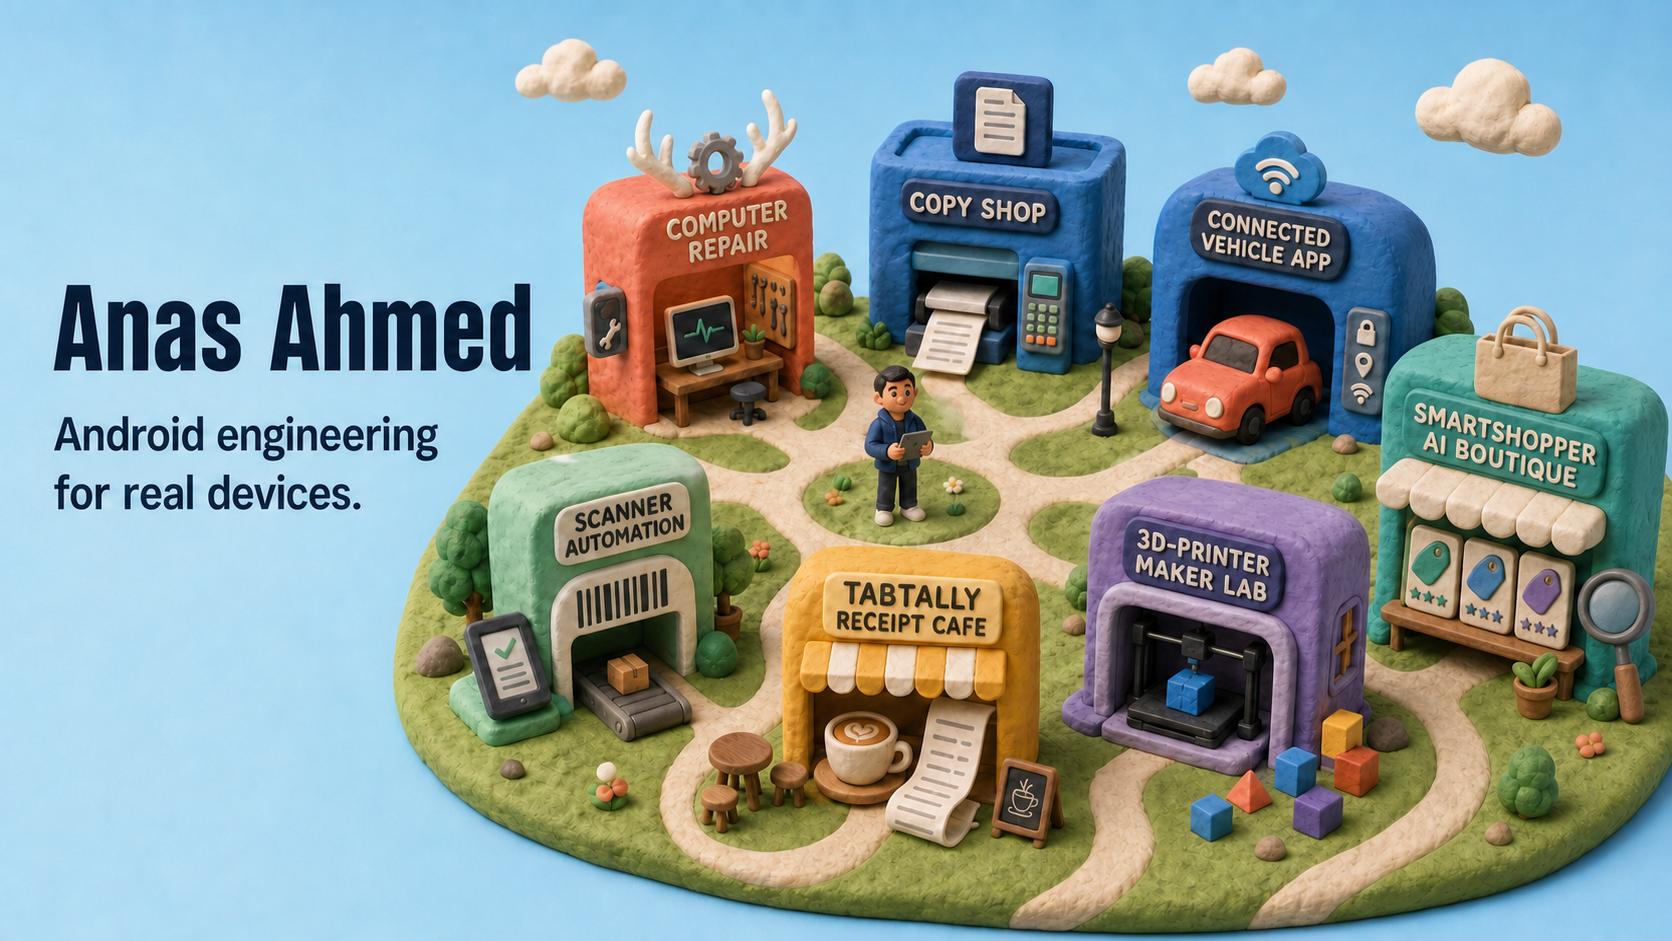
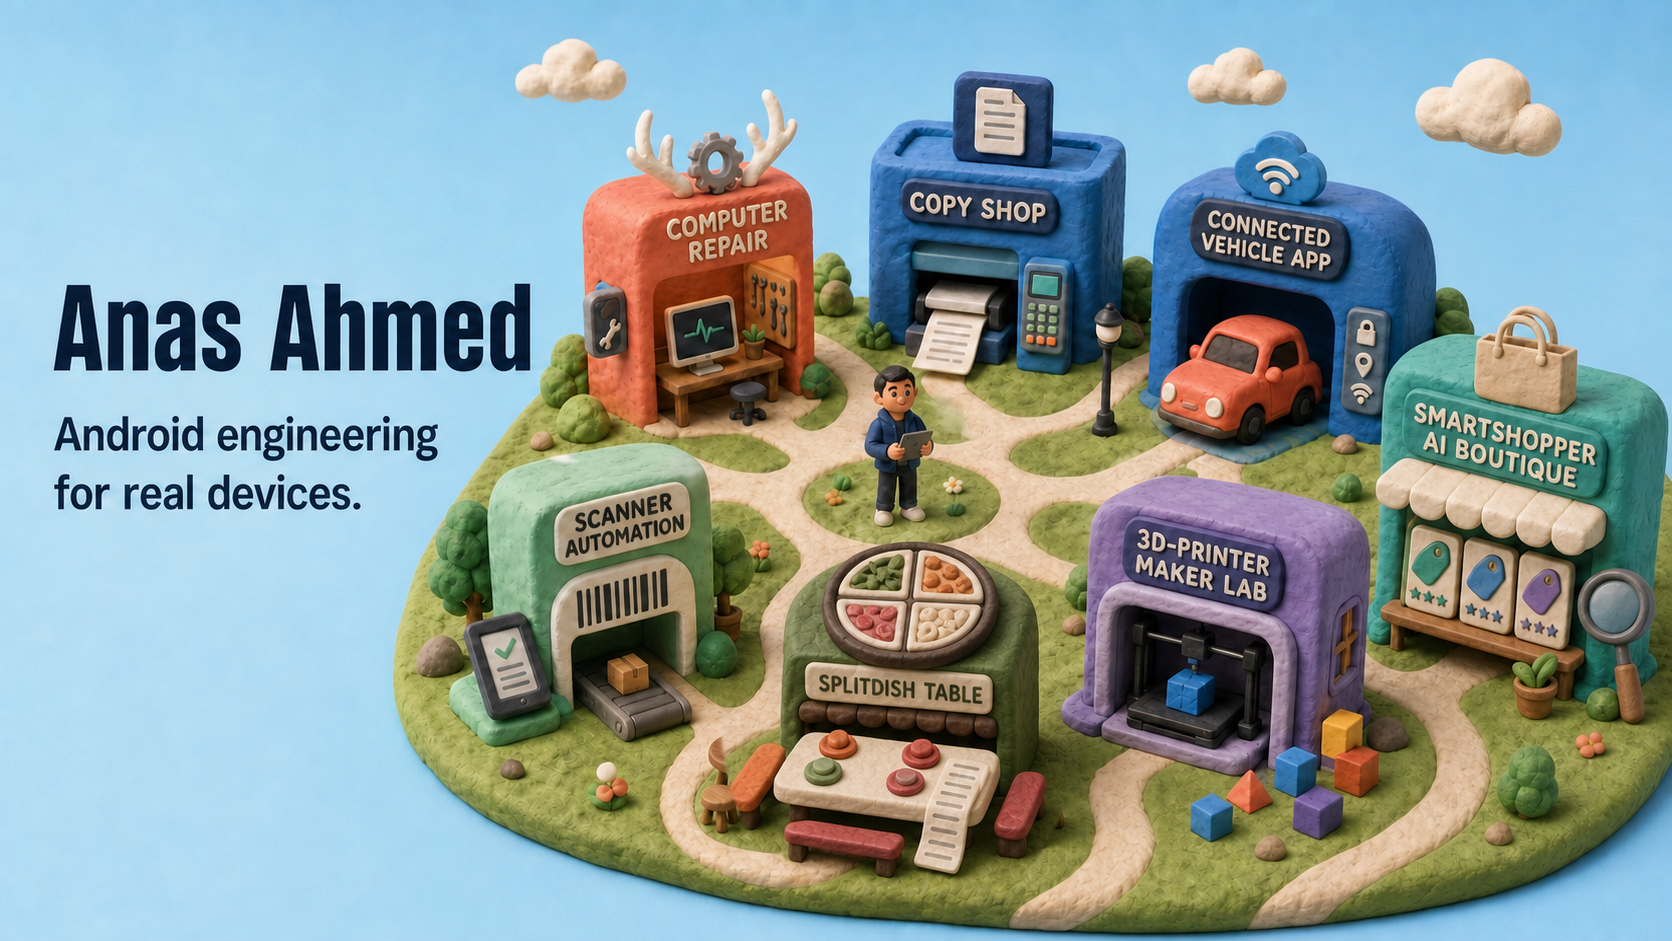
Replace campus landmark with SplitDish Table

Changed region(s): [[0.4354, 0.5547, 0.6531, 0.9554]]

diff --git a/app/components/ClayCampus.tsx b/app/components/ClayCampus.tsx
@@ -888,37 +888,104 @@ function Building({
       );
     }
 
-    if (zone.visual === "receipt-cafe") {
+    if (zone.visual === "splitdish-table") {
+      const dinerColors = ["#C76F3E", "#9D3F48", "#E6C99A", "#7D874B"];
       return (
         <>
-          <ClayRoundedBox seed="receipt-shell" deformation={0.028} args={[5.35, 3.5, 4.45]} radius={1.05} smoothness={6} position={[0, 1.75, 0]} rotation={[0.006, -0.008, 0.01]} castShadow receiveShadow>
+          <ClayRoundedBox seed="splitdish-shell" deformation={0.028} args={[5.35, 3.5, 4.45]} radius={1.05} smoothness={6} position={[0, 1.75, 0]} rotation={[0.006, -0.008, 0.01]} castShadow receiveShadow>
             <ClayMaterial color={zone.color} roughness={0.94} normalStrength={0.28} />
           </ClayRoundedBox>
-          <mesh position={[0, 4.02, 0]} rotation={[0, 0, Math.PI / 2]} castShadow>
-            <cylinderGeometry args={[0.72, 0.72, 3.25, 24]} />
-            <meshStandardMaterial color="#fffdf5" roughness={0.94} />
-          </mesh>
-          <RoundedBox args={[2.85, 2.1, 0.18]} radius={0.16} smoothness={4} position={[0, 3.12, 2.28]} rotation={[0, 0, -0.025]}>
-            <meshStandardMaterial color="#fffdf5" roughness={0.98} />
-          </RoundedBox>
-          {[2.52, 2.2, 1.88].map((lineY, index) => (
-            <RoundedBox key={lineY} args={[index === 0 ? 1.85 : 1.35, 0.08, 0.04]} radius={0.03} position={[0, lineY, 2.4]}>
-              <meshStandardMaterial color={index === 0 ? "#25334a" : "#9b8d77"} roughness={0.85} />
-            </RoundedBox>
-          ))}
-          {[-1.35, 1.35].map((tableX) => (
-            <group key={tableX} position={[tableX, 0.62, 2.52]}>
-              <ClayMesh seed={`receipt-tabletop-${tableX}`} deformation={0.035} preserveBase={false}>
-                <cylinderGeometry args={[0.62, 0.68, 0.18, 18]} />
-                <ClayMaterial color="#fff0d2" roughness={0.95} normalStrength={0.2} />
+          <ClayRoundedBox seed="splitdish-cream-entry" deformation={0.024} args={[1.62, 2.38, 0.34]} radius={0.5} smoothness={5} position={[0, 1.2, 2.2]} rotation={[0, 0, -0.012]} castShadow>
+            <ClayMaterial color="#F6E8CC" roughness={0.95} normalStrength={0.22} />
+          </ClayRoundedBox>
+          <ClayRoundedBox seed="splitdish-door" deformation={0.022} args={[1.08, 1.88, 0.18]} radius={0.34} smoothness={5} position={[0, 1.08, 2.42]}>
+            <ClayMaterial color="#4A3428" roughness={0.92} normalStrength={0.18} />
+          </ClayRoundedBox>
+          <ClayRoundedBox seed="splitdish-plaque" deformation={0.025} args={[3.25, 0.62, 0.28]} radius={0.22} smoothness={5} position={[0, 3.15, 2.24]} rotation={[0, 0, -0.018]} castShadow>
+            <ClayMaterial color="#F6E8CC" roughness={0.95} normalStrength={0.2} />
+          </ClayRoundedBox>
+
+          <group position={[0, 4.38, 0.12]} rotation={[0.02, -0.03, -0.02]}>
+            <ClayMesh seed="splitdish-logo-rim" deformation={0.028} preserveBase={false} castShadow>
+              <torusGeometry args={[0.94, 0.16, 12, 32]} />
+              <ClayMaterial color="#4A3428" roughness={0.96} normalStrength={0.22} />
+            </ClayMesh>
+            <mesh position={[0, 0, -0.04]}>
+              <circleGeometry args={[0.9, 32]} />
+              <meshStandardMaterial color="#F6E8CC" roughness={0.95} />
+            </mesh>
+            {["#C76F3E", "#F6E8CC", "#9D3F48", "#7D874B"].map((color, index) => (
+              <ClayMesh
+                seed={`splitdish-logo-quadrant-${index}`}
+                deformation={0.018}
+                preserveBase={false}
+                key={color}
+                position={[0, 0, 0.03]}
+              >
+                <circleGeometry args={[0.78, 18, index * Math.PI / 2, Math.PI / 2]} />
+                <ClayMaterial color={color} roughness={0.95} normalStrength={0.17} />
               </ClayMesh>
-              <ClayMesh seed={`receipt-table-leg-${tableX}`} deformation={0.04} position={[0, -0.44, 0]}>
-                <cylinderGeometry args={[0.11, 0.14, 0.8, 10]} />
-                <ClayMaterial color="#40536b" roughness={0.93} normalStrength={0.18} />
+            ))}
+            {[[-0.42, 0.38], [0.42, 0.38], [-0.42, -0.38], [0.42, -0.38]].map(([motifX, motifY], index) => (
+              <ClayMesh
+                seed={`splitdish-logo-motif-${index}`}
+                deformation={0.028}
+                key={`${motifX}-${motifY}`}
+                position={[motifX, motifY, 0.11]}
+                scale={[1, 0.55, 0.42]}
+                rotation={[0, 0, index % 2 ? -0.65 : 0.65]}
+              >
+                <sphereGeometry args={[0.16, 12, 9]} />
+                <ClayMaterial color={index % 2 ? "#5D6639" : "#F6E8CC"} roughness={0.96} normalStrength={0.18} />
+              </ClayMesh>
+            ))}
+          </group>
+
+          <group position={[0, 0.72, 2.75]} rotation={[0, -0.04, 0]}>
+            <ClayMesh seed="splitdish-tabletop" deformation={0.034} preserveBase={false} castShadow>
+              <cylinderGeometry args={[1.48, 1.56, 0.2, 24]} />
+              <ClayMaterial color="#F6E8CC" roughness={0.96} normalStrength={0.22} />
+            </ClayMesh>
+            <ClayMesh seed="splitdish-table-leg" deformation={0.038} position={[0, -0.46, 0]} castShadow>
+              <cylinderGeometry args={[0.16, 0.22, 0.86, 12]} />
+              <ClayMaterial color="#4A3428" roughness={0.95} normalStrength={0.2} />
+            </ClayMesh>
+            <ClayRoundedBox seed="splitdish-receipt-strip" deformation={0.018} args={[0.54, 0.06, 1.34]} radius={0.04} smoothness={3} position={[0.08, 0.16, 0]} rotation={[0, 0.22, -0.02]}>
+              <ClayMaterial color="#FFF8E8" roughness={0.98} normalStrength={0.12} />
+            </ClayRoundedBox>
+            {[-0.3, 0, 0.3].map((lineZ, index) => (
+              <RoundedBox key={lineZ} args={[0.3 + index * 0.06, 0.025, 0.035]} radius={0.012} position={[0.06, 0.205, lineZ]} rotation={[0, 0.22, 0]}>
+                <meshStandardMaterial color="#7A6757" roughness={0.9} />
+              </RoundedBox>
+            ))}
+            {dinerColors.map((color, index) => {
+              const angle = index * Math.PI / 2 + Math.PI / 4;
+              return (
+                <ClayMesh
+                  seed={`splitdish-diner-token-${index}`}
+                  deformation={0.03}
+                  preserveBase={false}
+                  key={color}
+                  position={[Math.cos(angle) * 0.98, 0.19, Math.sin(angle) * 0.98]}
+                  rotation={[Math.PI / 2, 0, angle]}
+                >
+                  <cylinderGeometry args={[0.16, 0.18, 0.08, 14]} />
+                  <ClayMaterial color={color} roughness={0.95} normalStrength={0.18} />
+                </ClayMesh>
+              );
+            })}
+          </group>
+          {[-1.9, 1.9].map((benchX, index) => (
+            <group key={benchX} position={[benchX, 0.38, 2.62]} rotation={[0, 0, index ? -0.025 : 0.025]}>
+              <ClayRoundedBox seed={`splitdish-bench-${index}`} deformation={0.028} args={[0.52, 0.2, 1.55]} radius={0.13} smoothness={4}>
+                <ClayMaterial color={index ? "#9D3F48" : "#C76F3E"} roughness={0.95} normalStrength={0.2} />
+              </ClayRoundedBox>
+              <ClayMesh seed={`splitdish-bench-leg-${index}`} deformation={0.035} position={[0, -0.28, 0]}>
+                <cylinderGeometry args={[0.09, 0.12, 0.48, 10]} />
+                <ClayMaterial color="#4A3428" roughness={0.95} normalStrength={0.18} />
               </ClayMesh>
             </group>
           ))}
-          {door}
         </>
       );
     }

diff --git a/app/data/portfolio.ts b/app/data/portfolio.ts
@@ -15,7 +15,7 @@ export type CampusDestination = {
     | "copy-building"
     | "vehicle-garage"
     | "scanner-depot"
-    | "receipt-cafe"
+    | "splitdish-table"
     | "shopping-boutique"
     | "maker-lab";
   navLabel: string;
@@ -261,17 +261,17 @@ export const CAMPUS_DESTINATIONS: CampusDestination[] = [
   {
     id: "splitdish",
     type: "project",
-    visual: "receipt-cafe",
+    visual: "splitdish-table",
     navLabel: "SplitDish",
-    sceneLabel: "SplitDish Receipt Café",
+    sceneLabel: "SplitDish Table",
     accessibleName:
-      "Visit the SplitDish Receipt Cafe and open the receipt-splitting product story",
+      "Visit SplitDish Table and open the receipt-splitting product story",
     kicker: "PERSONAL PRODUCT · KOTLIN MULTIPLATFORM",
     title: "From a messy receipt to a trustworthy split.",
     summary:
       "I designed and built a Kotlin Multiplatform product that turns receipt capture, OCR, reviewed AI extraction, item assignment, and bill splitting into one clear flow.",
     impact: "Shared Android + iOS product · editable before calculation",
-    color: "#ffbf3f",
+    color: "#5D6639",
     position: [9.5, 0, 7.4],
     approach: [9.5, 0, 11],
     height: 4.2,

diff --git a/design-qa.md b/design-qa.md
@@ -107,6 +107,23 @@ Required fidelity surfaces passed: UI typography and copy are unchanged; the ori
 
 final result: passed
 
+## SplitDish Table campus replacement
+
+- Date: 2026-08-11
+- Live landmark: `splitdish-table` at the existing SplitDish position, approach point, footprint, height, and width.
+- Static artwork: `public/campus/campus-preview.webp` at 1400 × 788 and `public/og.png` at 1672 × 941.
+- Checked viewports: 1280 × 720, 768 × 1024, and 390 × 844 at DPR 1.
+
+The former café landmark is now SplitDish Table. The live scene uses the product's deep olive `#5D6639` shell, warm-cream entry and table surfaces, burnt-orange and cranberry seating, dark-brown grounding details, a four-quadrant plate mark, a shared receipt, and four diner-assignment tokens. The exact HTML scene label is `SplitDish Table`, and the shared accessible name is “Visit SplitDish Table and open the receipt-splitting product story.” The original destination coordinates and collision dimensions are unchanged.
+
+Both static campus assets were inspected at original resolution after a footprint-constrained edit. The new landmark has the exact sign `SPLITDISH TABLE`, the same plate, table, receipt, and diner-token motifs as the live scene, and no residual legacy branding or mustard café treatment. Every neighboring landmark, label, character, path, cloud, and the overall composition remain sourced from the original artwork outside the replaced landmark footprint.
+
+Responsive and interaction checks passed at all three target viewports. Header navigation, the Campus map, and the nearby SplitDish action opened the correct product dialog; closing the dialog returned focus to the originating `Open SplitDish Table` control. Pointer movement changed the scene, keyboard navigation remained active, the 2D fallback exposed the SplitDish product story, and reduced-motion emulation produced identical environmental frames 800 ms apart while destination navigation remained available. The mobile and tablet compositions kept the olive landmark and roof mark readable without obscuring the controls.
+
+No application console errors were found. The console contained only the existing Three.js `Clock` deprecation warning. ESLint passed with the seven existing `next/no-img-element` warnings, the Vinext production build passed, the GitHub Pages static export prerendered all routes, the tracked-text search found no legacy brand or visual-identifier references, and `git diff --check` passed.
+
+final result: passed
+
 ## Buildings and environment clay pass
 
 - Source visual truth: `/var/folders/t5/ldjqvjls55vfj04ph9vq926w0000gn/T/codex-clipboard-b4f8bf38-e3b1-40fe-852d-625933e45d09.png`
